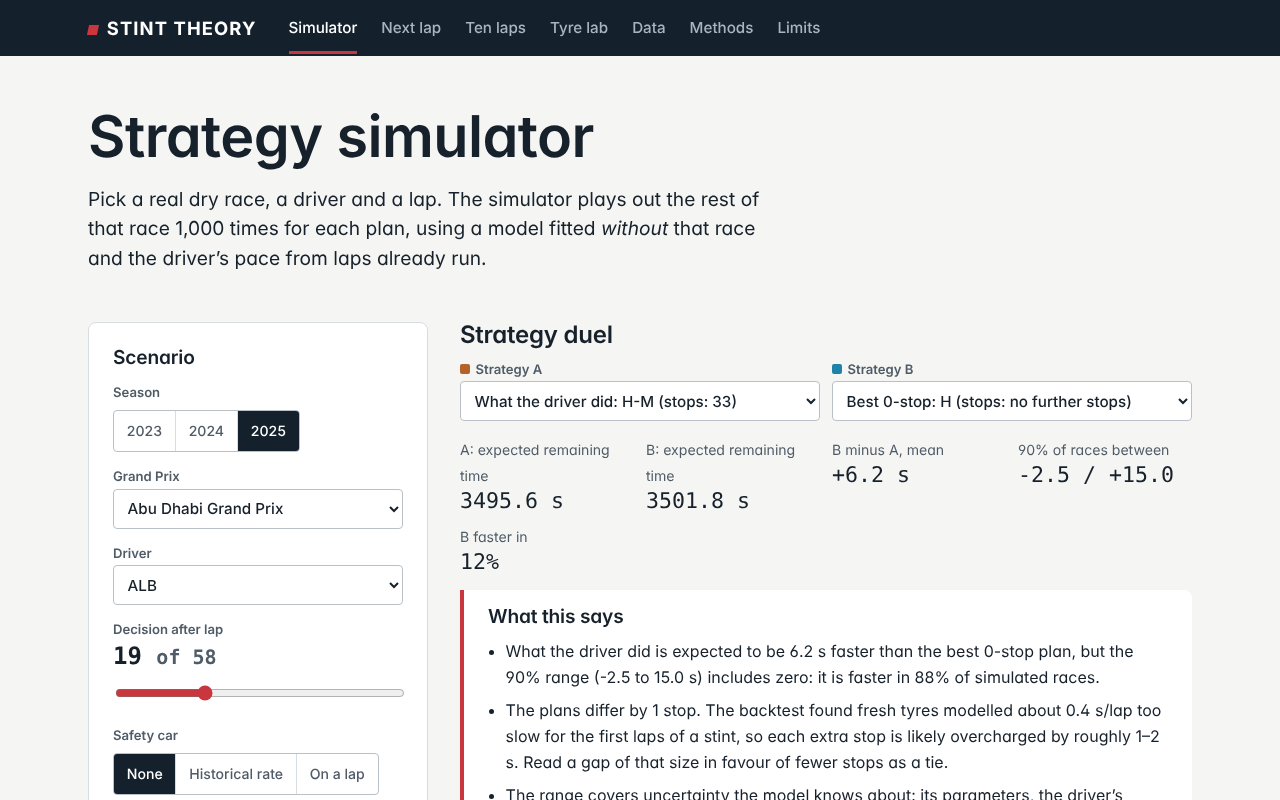
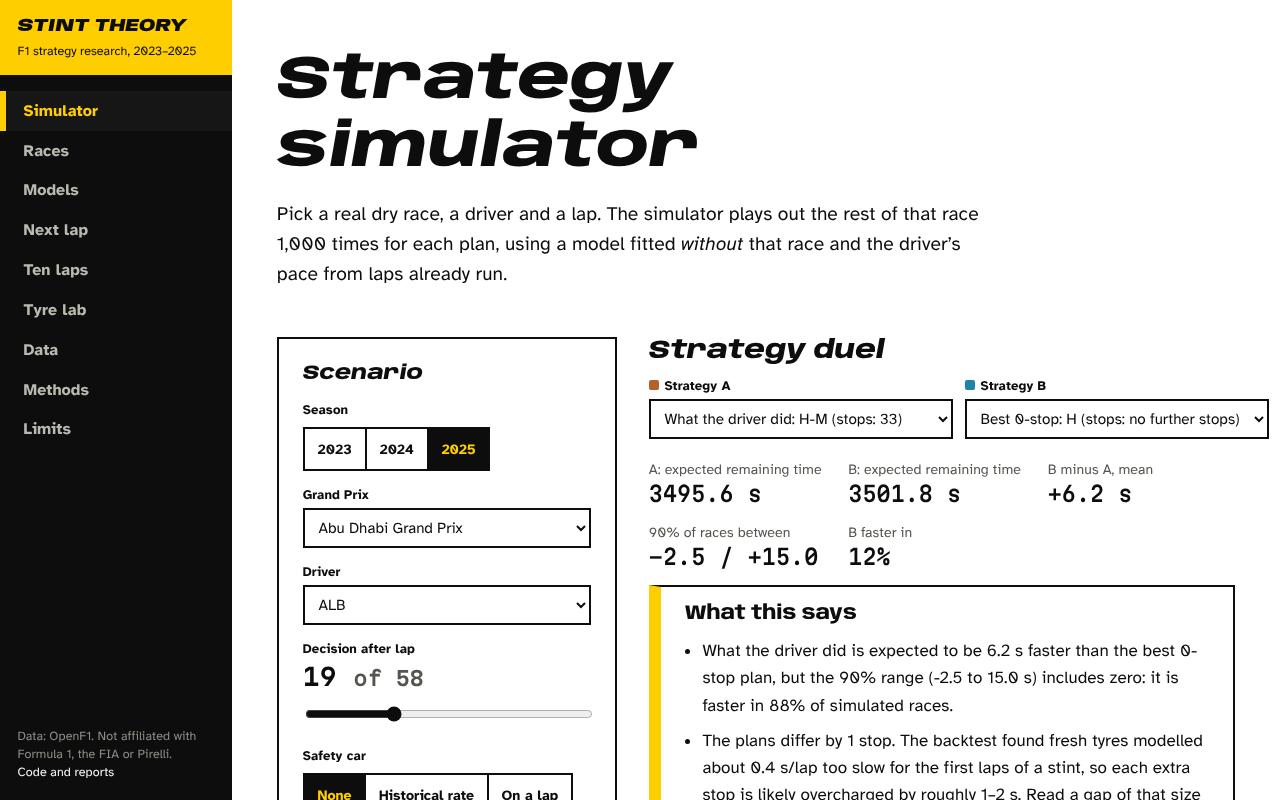
Pit Lane theme; model arena, race explorer, tyre lab

diff --git a/web/src/styles.css b/web/src/styles.css
@@ -256,3 +256,134 @@ input[type="range"] { accent-color: var(--red); width: 100%; min-height: 32px; }
 .chip { display: inline-block; font: 600 .75rem var(--font-ui); padding: .15rem .5rem; border-radius: 999px; background: var(--canvas); border: 1px solid var(--border); color: var(--text-2); }
 .chip.ok { color: #1d6b3a; border-color: #b9dcc6; background: #eef8f1; }
 .chip.warn { color: #8a5a00; border-color: #ecd59b; background: #fdf7e6; }
+
+/* ======================================================================
+   THEME LAYER: Pit Lane (overrides the base rules above)
+   ====================================================================== */
+body { font-family: var(--font-ui); letter-spacing: .005em; }
+h1, h2, h3, h4 { font-family: var(--font-head); font-weight: 800; font-stretch: 118%; letter-spacing: -.01em; }
+h1 { font-style: italic; font-stretch: 125%; }
+h2 { font-size: var(--step-3); font-style: italic; }
+h3 { font-stretch: 105%; font-weight: 750; }
+.num, .mono, td.num, .stat b { font-family: var(--font-num); font-stretch: 87.5%; font-variant-numeric: tabular-nums; }
+a { text-decoration-color: var(--black); }
+a:hover { background: var(--signal-soft); text-decoration-thickness: 2px; }
+:focus-visible { outline: 3px solid var(--black); outline-offset: 2px; box-shadow: 0 0 0 6px var(--signal); border-radius: 0; }
+
+/* --- layout: pit-wall rail on the left, content on the right --- */
+.shell { display: grid; grid-template-columns: var(--rail) minmax(0, 1fr); min-height: 100vh; }
+.rail { background: var(--black); color: var(--text-on-dark); position: sticky; top: 0; height: 100vh; display: flex; flex-direction: column; }
+.rail .brand { display: block; background: var(--signal); color: var(--black); padding: 1.1rem 1.1rem 1rem; text-decoration: none;
+  font: italic 900 1.45rem/1 var(--font-head); font-stretch: 140%; letter-spacing: -.01em; }
+.rail .brand small { display: block; font: 400 .78rem/1.3 var(--font-ui); font-style: normal; letter-spacing: 0; margin-top: .45rem; }
+.rail .brand:hover { background: var(--signal); }
+.rail ul { list-style: none; margin: 1rem 0 0; padding: 0; }
+.rail li a { display: flex; align-items: center; gap: .6rem; padding: .62rem 1.1rem; color: var(--text-on-dark-2); text-decoration: none;
+  font: 700 1rem var(--font-ui); border-left: 6px solid transparent; }
+.rail li a:hover { color: #fff; background: #1d1d1d; }
+.rail li a.active { color: var(--signal); border-left-color: var(--signal); background: #161616; }
+.rail li.sep { margin-top: .9rem; padding: .3rem 1.1rem; font: 400 .74rem var(--font-ui); color: #7d7d75; }
+.rail .rail-foot { margin-top: auto; padding: 1rem 1.1rem 1.2rem; font-size: .78rem; color: #8d8d85; line-height: 1.45; }
+.rail .rail-foot a { color: var(--text-on-dark); }
+.rail .rail-foot a:hover { background: none; color: var(--signal); }
+.top { display: none; }
+main { min-width: 0; }
+.page { max-width: var(--page); margin: 0; }
+@media (max-width: 900px) {
+  .shell { grid-template-columns: 1fr; }
+  .rail { position: sticky; top: 0; height: auto; z-index: 10; flex-direction: row; flex-wrap: wrap; }
+  .rail .brand { padding: .7rem .9rem; font-size: 1.1rem; }
+  .rail .brand small, .rail .rail-foot, .rail li.sep { display: none; }
+  .rail ul { display: flex; overflow-x: auto; margin: 0; width: 100%; scrollbar-width: none; }
+  .rail li a { padding: .6rem .8rem; border-left: 0; border-bottom: 4px solid transparent; white-space: nowrap; font-size: .92rem; }
+  .rail li a.active { border-bottom-color: var(--signal); }
+}
+
+/* --- hero: signal yellow, hazard edge --- */
+.hero { background: var(--signal); color: var(--black); position: relative; border-bottom: 12px solid transparent; border-image: var(--hazard) 12; }
+.hero-inner { margin: 0; max-width: var(--page); }
+.hero h1 { color: var(--black); font-size: var(--step-5); font-weight: 900; font-stretch: 135%; line-height: .98; }
+.hero h1 span + span { color: var(--black); font-weight: 500; font-stretch: 100%; }
+.hero .lede { color: var(--black); font-size: 1.2rem; }
+.hero .actions .text-link { color: var(--black); }
+.hero-card { background: var(--panel); border: var(--line) solid var(--black); border-radius: 0; box-shadow: 8px 8px 0 var(--black); }
+.hero-card .kicker { color: var(--text-2); }
+.hero-card h2 { color: var(--black); font-style: normal; font-stretch: 105%; }
+.hero-card .chart .axis { fill: var(--text-2); }
+.hero-card .chart .row-label { fill: var(--black); }
+.hero-card .chart .grid { stroke: var(--grid); }
+.hero-card .chart .decision { stroke: var(--black); }
+.verdict-chip { color: var(--black); }
+.verdict-chip b { color: var(--black); background: var(--signal); padding: 0 .35rem; }
+.hero-card a { color: var(--black) !important; font-weight: 700; }
+
+/* --- buttons: black blocks, yellow when pressed --- */
+.btn { border-radius: 0; font-weight: 700; border-width: var(--line); }
+.btn-primary { background: var(--black); color: var(--signal); }
+.btn-primary:hover { background: #2a2a2a; }
+.btn-ghost { border-color: var(--black); color: var(--black); }
+.btn-ghost:hover { background: var(--black); color: var(--signal); }
+.btn-quiet { border: var(--line) solid var(--black); background: #fff; color: var(--black); }
+.btn-quiet:hover { background: var(--signal); }
+.segmented { border: var(--line) solid var(--black); border-radius: 0; }
+.segmented button { font-weight: 700; color: var(--black); }
+.segmented button + button { border-left: var(--line) solid var(--black); }
+.segmented button[aria-pressed="true"] { background: var(--black); color: var(--signal); }
+select, input[type="number"], input[type="search"] { border: var(--line) solid var(--black) !important; border-radius: 0 !important; font-family: var(--font-ui); }
+input[type="range"] { accent-color: var(--black); }
+label.field, .field-label { color: var(--black); font-weight: 700; }
+
+/* --- panels, charts, tables: signage frames --- */
+.panel, .chart-box, .table-wrap, .evidence { border: var(--line) solid var(--black); border-radius: 0; }
+.chart .grid { stroke: var(--grid); }
+.chart .zero { stroke: var(--black); }
+.chart .axis, .chart .axis-title { fill: var(--text-2); font-family: var(--font-ui); }
+.chart .axis { font-family: var(--font-num); font-stretch: 87.5%; font-size: 11px; }
+.chart .row-label { fill: var(--black); font-weight: 700; }
+.chart .changed { stroke: var(--black); stroke-dasharray: 4 2; stroke-width: 2; }
+.tooltip { background: var(--black); color: #fff; border-radius: 0; border-left: 4px solid var(--signal); box-shadow: none; }
+th { background: var(--black); color: #fff; font-weight: 700; font-family: var(--font-ui); }
+tr.highlight td { background: var(--signal-soft); }
+tbody tr:hover td { background: #fafaf5; }
+.prose th { background: var(--black); color: #fff; }
+details.report { border-top: var(--line) solid var(--black); }
+.stats, .overview { border-top: var(--line) solid var(--black); border-bottom: var(--line) solid var(--black); }
+.stat b { font-weight: 500; }
+.provenance code, code { background: var(--sunk); padding: 0 .25rem; }
+pre code { background: none; }
+pre { background: var(--black); border-left: 6px solid var(--signal); border-radius: 0; }
+.missing { border-left: 6px solid var(--signal); background: var(--sunk); }
+.state { border-left: 6px solid var(--signal); background: var(--sunk); }
+.explain, .callout { border: var(--line) solid var(--black); border-left: 12px solid var(--signal); border-radius: 0; }
+.finding { border-top: 6px solid var(--black); }
+.story { border-top: var(--line) solid var(--black); }
+.story h3 { font-style: italic; font-stretch: 120%; }
+.story .fact { border: var(--line) solid var(--black); border-radius: 0; background: var(--signal-soft); font-family: var(--font-num); font-stretch: 87.5%; font-size: .85rem; }
+.tabs { border-bottom: var(--line) solid var(--black); }
+.tabs button { font-weight: 700; color: var(--text-2); }
+.tabs button[aria-selected="true"] { color: var(--black); border-bottom: 6px solid var(--signal); background: none; }
+.doc-list button.on { border-left-color: var(--signal); background: var(--black); color: #fff; }
+.chip { border-radius: 0; border: var(--line) solid var(--black); color: var(--black); background: #fff; font-weight: 700; }
+.chip.ok { background: var(--signal); color: var(--black); border-color: var(--black); }
+.chip.warn { background: var(--sunk); color: var(--black); border-color: var(--black); }
+.skeleton { background: linear-gradient(90deg, var(--sunk), #fff, var(--sunk)); background-size: 200% 100%; border: var(--line) solid var(--black); }
+.heat td { border: 2px solid #fff; }
+.heat td.base { outline: 3px solid var(--black); }
+.legend i { border-radius: 0; }
+
+/* --- footer: hazard edge --- */
+footer { background: var(--black); color: var(--text-on-dark-2); border-top: 12px solid transparent; border-image: var(--hazard) 12; }
+footer .inner { max-width: var(--page); margin: 0; }
+footer a { color: var(--signal); }
+footer a:hover { background: none; text-decoration-color: var(--signal); }
+.page-head h1 { font-size: var(--step-4); }
+.lede { font-size: 1.2rem; }
+.rail .brand { font-size: 1.12rem; font-stretch: 122%; white-space: nowrap; }
+.hero h1 { font-size: clamp(2.6rem, 5.4vw, 4.6rem); font-stretch: 122%; }
+.hero h1 span + span { font-stretch: 95%; }
+.stat b { font-size: 1.55rem; white-space: nowrap; }
+.hero-inner { padding-left: var(--gutter); }
+.shell > div { min-width: 0; }
+@media (max-width: 900px) { .hero-inner { padding-top: var(--space-6); } .hero h1 { font-size: clamp(2.2rem, 10vw, 3.2rem); } }
+@media (max-width: 900px) { .shell { grid-template-columns: minmax(0, 1fr); } .rail, .rail ul { min-width: 0; max-width: 100vw; } }
+@media (max-width: 760px) { .docs { grid-template-columns: minmax(0, 1fr); } .doc-list { min-width: 0; } }

diff --git a/web/src/tokens.css b/web/src/tokens.css
@@ -1,23 +1,31 @@
-/* STINT THEORY design tokens: Precision Motorsport.
-   Every colour, type and spacing value used in the app is defined here. */
+/* STINT THEORY design tokens: "Pit Lane".
+   Signal yellow and black on white, like pit-lane signage and the pit-wall gantry.
+   Yellow is structural (hero, rail, active states, highlights) and never used for text.
+   Data colours (compounds, strategies A/B, diverging) are validated for colour-blind
+   readers and stay fixed. */
 :root {
   /* surfaces */
-  --canvas: #f5f6f3;
+  --canvas: #ffffff;
   --panel: #ffffff;
-  --graphite: #14202c;
-  --graphite-2: #1f2d3b;
-  --border: #d7dce0;
-  --border-strong: #b9c1c8;
+  --sunk: #f3f3f0;           /* quiet fill for wells and table heads */
+  --signal: #ffce00;         /* signal yellow */
+  --signal-soft: #fff3b8;
+  --black: #0d0d0d;
+  --graphite: #0d0d0d;       /* alias used by charts and older rules */
+  --graphite-2: #1b1b1b;
+  --border: #0d0d0d;
+  --border-strong: #0d0d0d;
+  --hair: #d6d6d0;           /* light rules inside panels and grids */
   /* text */
-  --text: #17212b;
-  --text-2: #4f5b67;
-  --text-on-dark: #eef1f3;
-  --text-on-dark-2: #a9b4be;
-  /* emphasis: interaction and the key strategic difference only */
-  --red: #c9363e;
-  --red-dark: #a72b32;
-  --steel: #47778a;
-  /* tyre compounds: fixed meaning, always paired with an S/M/H mark */
+  --text: #0d0d0d;
+  --text-2: #55554f;
+  --text-on-dark: #f5f5f0;
+  --text-on-dark-2: #b9b9b0;
+  /* emphasis: black weight and yellow highlight, no red brand accent */
+  --red: #0d0d0d;
+  --red-dark: #000000;
+  --steel: #0d0d0d;
+  /* tyre compounds: fixed meaning, always with an S/M/H mark */
   --soft: #d33a2c;
   --medium: #c99700;
   --hard: #2f7fc8;
@@ -25,29 +33,26 @@
   /* chart roles */
   --series-a: #b5612a;
   --series-b: #1f82a8;
-  --div-neg: #1f82a8;   /* B faster */
-  --div-pos: #b5612a;   /* A faster */
-  --div-mid: #eef0ee;
-  --grid: #e7eaed;
-  --band: #e3e8ec;
+  --div-neg: #1f82a8;
+  --div-pos: #b5612a;
+  --div-mid: #f1f1ec;
+  --grid: #e6e6e0;
+  --band: #fff3b8;
   /* type */
-  --font-head: "Space Grotesk", "Segoe UI", system-ui, sans-serif;
-  --font-ui: "Inter", "Segoe UI", system-ui, sans-serif;
-  --font-num: "JetBrains Mono", ui-monospace, "Cascadia Mono", Consolas, monospace;
-  --step--1: .84rem;
-  --step-0: 1rem;
-  --step-1: 1.2rem;
-  --step-2: 1.5rem;
-  --step-3: 2.1rem;
-  --step-4: clamp(2.4rem, 5vw, 3.6rem);
-  --step-5: clamp(2.6rem, 6.5vw, 4.8rem);
+  --font-head: "Anybody Variable", "Anybody", "Arial Narrow", system-ui, sans-serif;
+  --font-ui: "Atkinson Hyperlegible", "Segoe UI", system-ui, sans-serif;
+  --font-num: "Martian Mono Variable", "Martian Mono", ui-monospace, Consolas, monospace;
+  --step--1: .84rem; --step-0: 1.0625rem; --step-1: 1.25rem; --step-2: 1.6rem; --step-3: 2.2rem;
+  --step-4: clamp(2.4rem, 5vw, 3.8rem); --step-5: clamp(2.8rem, 7vw, 5.6rem);
   /* layout */
-  --measure: 68ch;
-  --page: 1200px;
-  --gutter: clamp(1rem, 4vw, 3rem);
-  --radius-s: 4px;
-  --radius-m: 8px;
+  --rail: 232px;
+  --measure: 66ch;
+  --page: 1160px;
+  --gutter: clamp(1rem, 3.5vw, 3rem);
+  --radius-s: 0; --radius-m: 0;
+  --line: 2px;
   --space-1: .25rem; --space-2: .5rem; --space-3: .75rem; --space-4: 1rem;
   --space-5: 1.5rem; --space-6: 2rem; --space-7: 3rem; --space-8: 4.5rem;
   --ease: cubic-bezier(.2, .7, .2, 1);
+  --hazard: repeating-linear-gradient(-45deg, var(--black) 0 14px, var(--signal) 14px 28px);
 }

diff --git a/web/src/App.jsx b/web/src/App.jsx
@@ -36,14 +36,19 @@ export default function App() {
     <HashRouter>
       <Chrome />
       <a className="skip" href="#main">Skip to content</a>
-      <nav className="top" aria-label="Main">
-        <div className="top-inner">
-          <NavLink to="/" end className="brand"><i aria-hidden="true" />STINT THEORY</NavLink>
-          <ul className="nav-links">
-            {ROUTES.filter((r) => r.nav).map((r) => <li key={r.path}><NavLink to={r.path}>{r.label}</NavLink></li>)}
-          </ul>
-        </div>
+      <div className="shell">
+      <nav className="rail" aria-label="Main">
+        <NavLink to="/" end className="brand">STINT THEORY<small>F1 strategy research, 2023–2025</small></NavLink>
+        <ul>
+          {ROUTES.filter((r) => r.nav).map((r) => (
+            <li key={r.path}>
+              <NavLink to={r.path}>{r.label}</NavLink>
+            </li>
+          ))}
+        </ul>
+        <div className="rail-foot">Data: OpenF1. Not affiliated with Formula 1, the FIA or Pirelli.<br /><a href="https://github.com/NahianIbnat-2000/stint-theory">Code and reports</a></div>
       </nav>
+      <div>
       <main id="main">
         <Suspense fallback={<div className="page"><div className="skeleton" style={{ marginTop: "3rem" }} aria-label="Loading page" /></div>}>
           <Routes>
@@ -60,6 +65,8 @@ export default function App() {
           <a href="https://github.com/NahianIbnat-2000/stint-theory">Code and reports on GitHub</a>
         </div>
       </footer>
+      </div>
+      </div>
     </HashRouter>
   );
 }

diff --git a/web/index.html b/web/index.html
@@ -3,12 +3,9 @@
   <head>
     <meta charset="UTF-8" />
     <meta name="viewport" content="width=device-width, initial-scale=1.0" />
-    <meta name="theme-color" content="#14202c" />
+    <meta name="theme-color" content="#ffce00" />
     <meta name="description" content="Does deep learning beat statistical and machine learning models at forecasting Formula 1 lap times and tyre degradation? Pre-registered tests on 2023-2025 races, and a strategy simulator." />
     <title>STINT THEORY</title>
-    <link rel="preconnect" href="https://fonts.googleapis.com" />
-    <link rel="preconnect" href="https://fonts.gstatic.com" crossorigin />
-    <link href="https://fonts.googleapis.com/css2?family=Inter:wght@400;500;600&family=JetBrains+Mono:wght@400;500;600&family=Space+Grotesk:wght@500;600;700&display=swap" rel="stylesheet" />
   </head>
   <body>
     <div id="root"></div>

diff --git a/web/src/main.jsx b/web/src/main.jsx
@@ -1,6 +1,13 @@
 import React from "react";
 import { createRoot } from "react-dom/client";
 import App from "./App.jsx";
+// fonts are bundled with the site (latin subset), no third-party requests
+import "@fontsource-variable/anybody/standard.css";
+import "@fontsource-variable/anybody/standard-italic.css";
+import "@fontsource/atkinson-hyperlegible/latin-400.css";
+import "@fontsource/atkinson-hyperlegible/latin-700.css";
+import "@fontsource/atkinson-hyperlegible/latin-400-italic.css";
+import "@fontsource-variable/martian-mono/standard.css";
 import "./styles.css";
 
 createRoot(document.getElementById("root")).render(<App />);

diff --git a/web/src/components/StrategyTimeline.jsx b/web/src/components/StrategyTimeline.jsx
@@ -128,7 +128,7 @@ export default function StrategyTimeline({ race, driver, st, plans, svgRef, show
         {tt.node}
       </div>
       {showPace && <figcaption>
-        <Legend /> Shaded laps were already run at the decision. A red outline marks stints that differ from what happened.
+        <Legend /> Shaded laps were already run at the decision. A dashed black outline marks stints that differ from what happened.
         Triangles mark planned stops. The pace lines are expected values; pit-lane time is added once per stop in the totals, not drawn here.
       </figcaption>}
     </figure>

diff --git a/docs/website_audit.md b/docs/website_audit.md
@@ -72,6 +72,28 @@ Status: **fixed** in this round, **deferred** to a later round (with the reason)
 
 Tests added: `tests/test_webexport.py` (test-error aggregates sum back to the overall error and carry no lap values; race context has no lap times).
 
+## Round 3: visual identity, 2026-11-24
+
+The Priority 1 redesign followed the brief's palette (light canvas, graphite band,
+racing red, Inter and JetBrains Mono). That turned out to share its skeleton with the
+owner's other sites (Space Shock and F1 Moneyball: light paper, navy band, red accent,
+Inter / JetBrains Mono / Source Serif), so the identity was replaced with "Pit Lane":
+
+- signal yellow and black on white, from pit-lane signage; yellow is structural and
+  never used for text; no red brand accent;
+- a fixed black navigation rail on the left (a top bar on phones) instead of a top
+  navigation bar; square panels with 2 px black frames; black table heads; hazard
+  stripes only on the hero edge and the footer;
+- Anybody (variable width, wide italic headings), Atkinson Hyperlegible (body), Martian
+  Mono (numbers), bundled with the site through Fontsource: no Google Fonts request;
+- chart data colours unchanged (compounds, strategies A/B, diverging pair were already
+  validated for colour-blind readers).
+
+Files: `web/src/tokens.css`, theme layer at the end of `web/src/styles.css`,
+`web/src/App.jsx` (rail layout), `web/src/main.jsx` (fonts), `web/index.html`,
+`web/package.json` (three font packages). Checked at 1280 px and 390 px: no page is
+wider than the screen.
+
 ## Still deferred
 
 1. Featured race case study (Priority 4).
